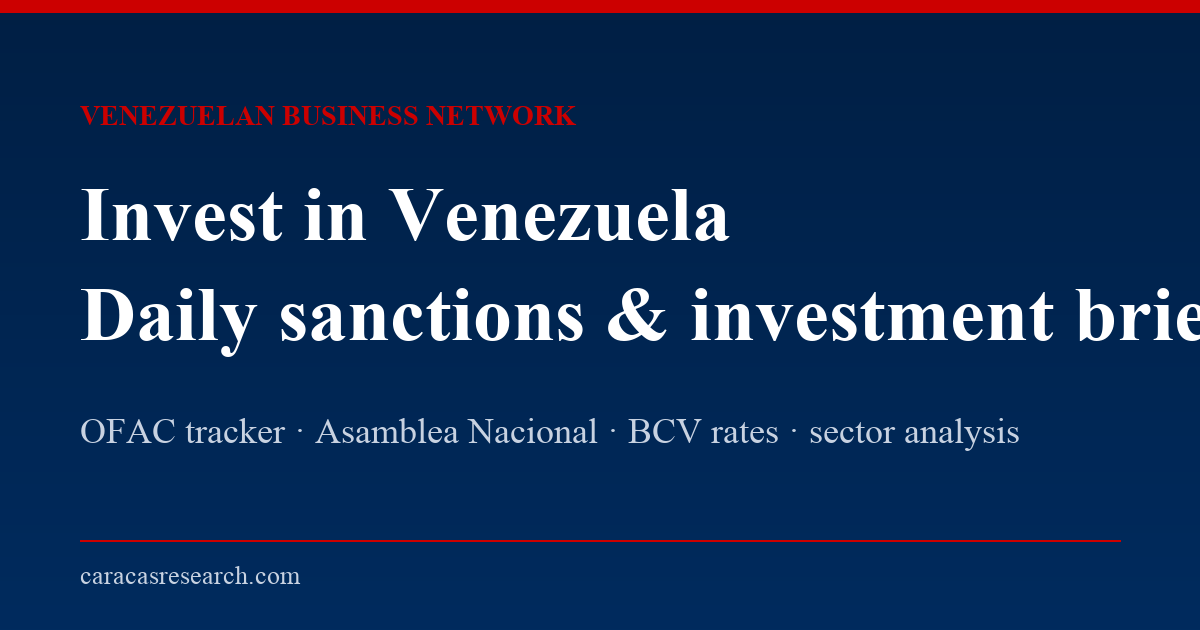
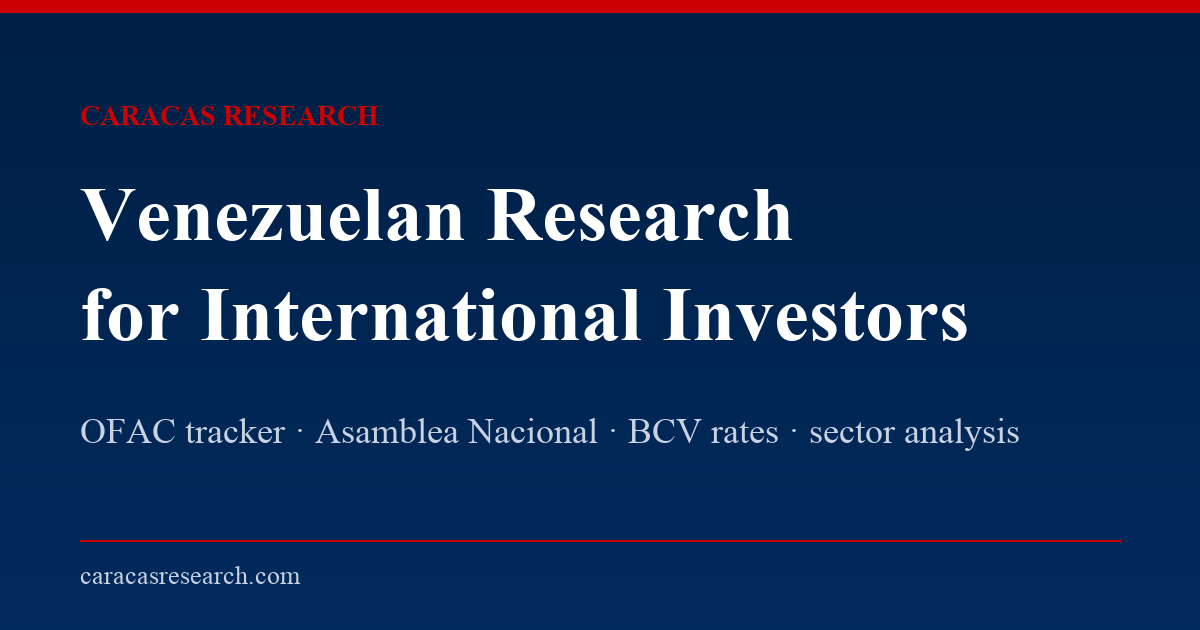
nav consistency, share buttons, refreshed OG image
Four UX fixes flagged after the rebrand to Caracas Research.

1) Social-share preview was still showing the old "Venezuelan Business
   Network / Daily sanctions & investment briefing" wording because the
   OG PNG at /static/og-image.png was generated before the rebrand.
   Updated scripts/generate_og_image.py to the new wording, regenerated
   the PNG, and bumped every og:image / twitter:image URL across the
   app to /static/og-image.png?v=2 so Slack, iMessage, LinkedIn, etc.
   re-fetch instead of serving their cached old preview.

2) Each "Latest Developments" entry now has a share affordance: a small
   pill-shaped Share button beside "Read full analysis". On any browser
   that exposes navigator.share (mobile Safari, Chrome Android) it opens
   the native share sheet; on desktop it copies the canonical analysis
   URL to the clipboard and shows a "Link copied" toast. Falls back to
   a #dev-<id> anchor when there's no blog post yet.

3) The header looked completely different on the homepage vs. /tools,
   /invest-in-venezuela, etc. because templates/_base.html.j2 (used by
   sub-pages) had its own divergent nav CSS — different font size, lower
   contrast, no Subscribe button, extra "Sources" link. Replaced the
   _base.html.j2 nav styles and markup with a 1:1 copy of the homepage
   nav so the brand, link styling, and Subscribe Free button look
   identical everywhere.

4) Removed the "Sources" link from the nav and footer of every template.
[…]

Changed region(s): [[0.0617, 0.4524, 1.0, 0.573], [0.0617, 0.3016, 0.6783, 0.3921], [0.0617, 0.1508, 0.4933, 0.2111]]

diff --git a/server.py b/server.py
@@ -286,7 +286,7 @@ def _tool_seo_jsonld(*, slug: str, title: str, description: str, keywords: str, 
         "site_name": _s.site_name,
         "site_url": base,
         "locale": _s.site_locale,
-        "og_image": f"{base}/static/og-image.png",
+        "og_image": f"{base}/static/og-image.png?v=2",
         "og_type": "website",
         "published_iso": _iso(_dt.utcnow()),
         "modified_iso": _iso(_dt.utcnow()),
@@ -842,7 +842,7 @@ def tools_index():
             "site_name": _s.site_name,
             "site_url": base,
             "locale": _s.site_locale,
-            "og_image": f"{base}/static/og-image.png",
+            "og_image": f"{base}/static/og-image.png?v=2",
             "og_type": "website",
             "published_iso": _iso(_dt.utcnow()),
             "modified_iso": _iso(_dt.utcnow()),
@@ -916,7 +916,7 @@ def explainers_index():
             "site_name": _s.site_name,
             "site_url": base,
             "locale": _s.site_locale,
-            "og_image": f"{base}/static/og-image.png",
+            "og_image": f"{base}/static/og-image.png?v=2",
             "og_type": "website",
             "published_iso": _iso(_dt.utcnow()),
             "modified_iso": _iso(_dt.utcnow()),
@@ -1091,7 +1091,7 @@ def sources_page():
                 "site_name": _s.site_name,
                 "site_url": base,
                 "locale": _s.site_locale,
-                "og_image": f"{base}/static/og-image.png",
+                "og_image": f"{base}/static/og-image.png?v=2",
                 "og_type": "website",
                 "published_iso": _iso(_dt.utcnow()),
                 "modified_iso": _iso(_dt.utcnow()),
@@ -1244,7 +1244,7 @@ def sanctions_tracker():
                 "site_name": _s.site_name,
                 "site_url": base,
                 "locale": _s.site_locale,
-                "og_image": f"{base}/static/og-image.png",
+                "og_image": f"{base}/static/og-image.png?v=2",
                 "og_type": "website",
                 "published_iso": _iso(_dt.utcnow()),
                 "modified_iso": _iso(_dt.utcnow()),
@@ -1349,7 +1349,7 @@ def calendar_page():
                 "site_name": _s.site_name,
                 "site_url": base,
                 "locale": _s.site_locale,
-                "og_image": f"{base}/static/og-image.png",
+                "og_image": f"{base}/static/og-image.png?v=2",
                 "og_type": "website",
                 "published_iso": _iso(_dt.utcnow()),
                 "modified_iso": _iso(_dt.utcnow()),

diff --git a/src/page_renderer.py b/src/page_renderer.py
@@ -47,7 +47,7 @@ def render_blog_post(post, *, related: list | None = None) -> str:
     """Render a single BlogPost row to HTML with full BlogPosting JSON-LD."""
     base = _base_url()
     canonical = f"{base}/briefing/{post.slug}"
-    og_image = f"{base}/static/og-image.png"
+    og_image = f"{base}/static/og-image.png?v=2"
 
     keywords = post.keywords_json or []
     if isinstance(keywords, str):
@@ -138,7 +138,7 @@ def render_blog_index(posts: Iterable) -> str:
         "site_name": settings.site_name,
         "site_url": base,
         "locale": settings.site_locale,
-        "og_image": f"{base}/static/og-image.png",
+        "og_image": f"{base}/static/og-image.png?v=2",
         "og_type": "website",
         "published_iso": _iso(datetime.utcnow()),
         "modified_iso": _iso(datetime.utcnow()),
@@ -184,7 +184,7 @@ def render_landing_page(page, *, recent_briefings: list | None = None) -> str:
     """Render a LandingPage row (pillar / sector / explainer) to HTML."""
     base = _base_url()
     canonical = f"{base}{page.canonical_path}"
-    og_image = f"{base}/static/og-image.png"
+    og_image = f"{base}/static/og-image.png?v=2"
 
     keywords = page.keywords_json or []
     if isinstance(keywords, str):

diff --git a/src/report_generator.py b/src/report_generator.py
@@ -936,7 +936,7 @@ def _build_jsonld(entries: list[dict], seo: dict, generated_at: datetime) -> str
         "url": f"{base}/",
         "logo": {
             "@type": "ImageObject",
-            "url": f"{base}/static/og-image.png",
+            "url": f"{base}/static/og-image.png?v=2",
             "width": 1200,
             "height": 630,
         },
@@ -1024,7 +1024,7 @@ def _build_jsonld(entries: list[dict], seo: dict, generated_at: datetime) -> str
             },
             "headline": article_headline[:110],
             "description": (article_body[:300] + ("…" if len(article_body) > 300 else "")),
-            "image": [seo.get("og_image", f"{base}/static/og-image.png")],
+            "image": [seo.get("og_image", f"{base}/static/og-image.png?v=2")],
             "datePublished": published,
             "dateModified": modified,
             "author": {
@@ -1106,7 +1106,7 @@ def _build_seo(entries: list[dict], generated_at: datetime) -> dict:
         keywords.append(f"Venezuela {sector.lower()} sector")
 
     canonical = f"{base}/"
-    og_image = f"{base}/static/og-image.png"
+    og_image = f"{base}/static/og-image.png?v=2"
 
     return {
         "title": title,

diff --git a/scripts/generate_og_image.py b/scripts/generate_og_image.py
@@ -70,10 +70,10 @@ def main() -> None:
     subtitle = _font(36)
     footer = _font(26)
 
-    draw.text((80, 100), "VENEZUELAN BUSINESS NETWORK", font=eyebrow, fill=ACCENT)
+    draw.text((80, 100), "CARACAS RESEARCH", font=eyebrow, fill=ACCENT)
 
-    draw.text((80, 170), "Invest in Venezuela", font=title, fill=WHITE)
-    draw.text((80, 270), "Daily sanctions & investment briefing", font=title, fill=WHITE)
+    draw.text((80, 170), "Venezuelan Research", font=title, fill=WHITE)
+    draw.text((80, 270), "for International Investors", font=title, fill=WHITE)
 
     draw.text(
         (80, 410),
